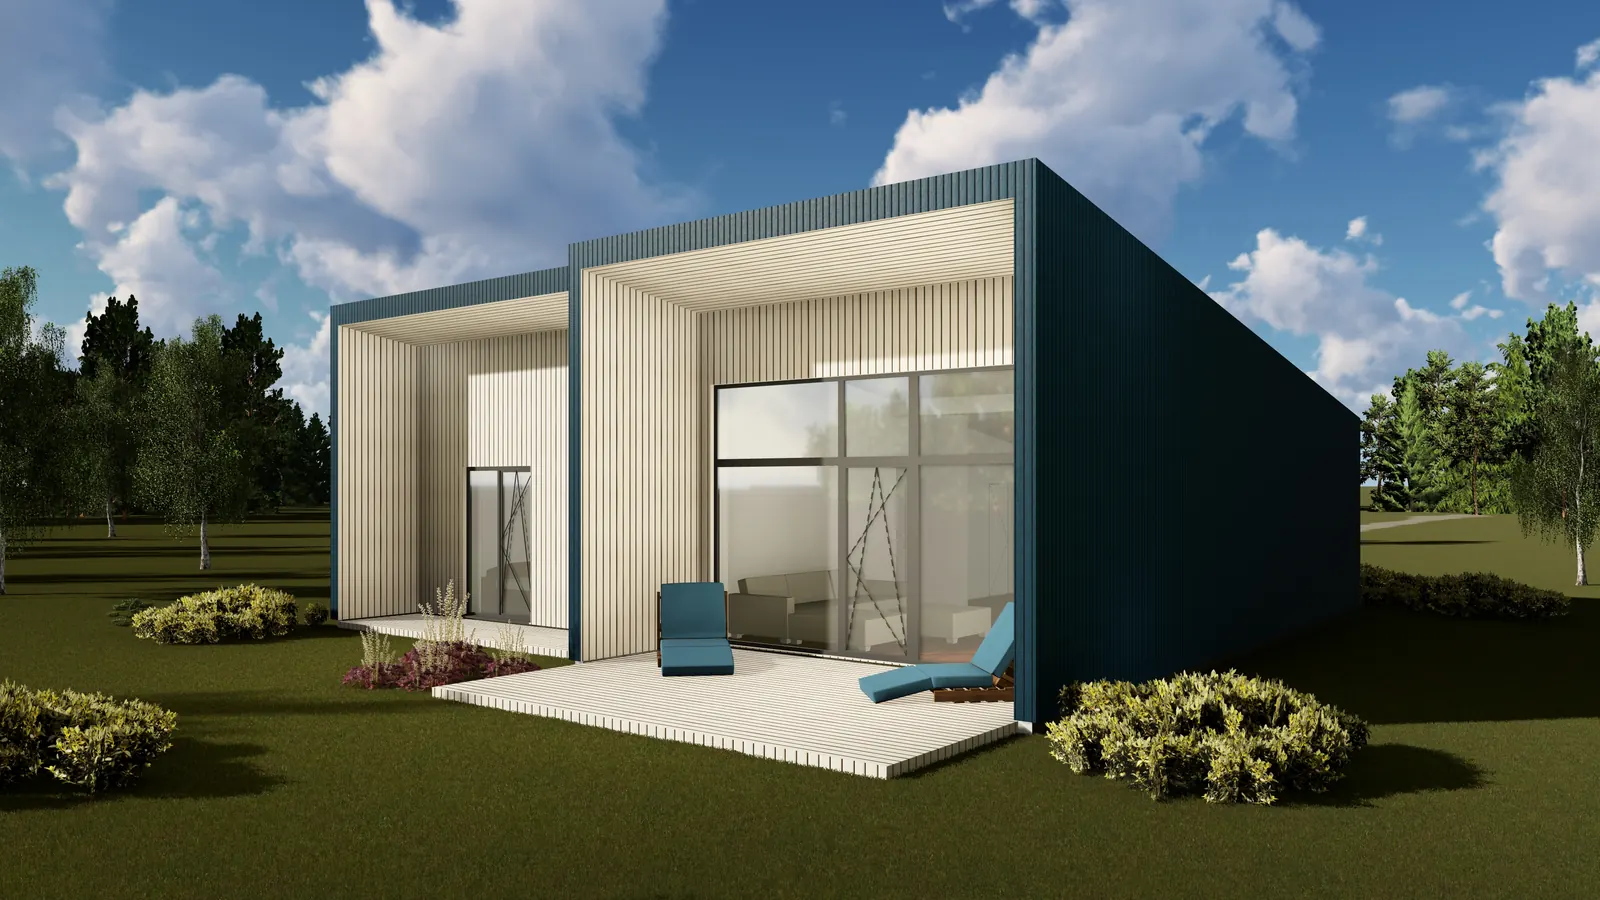
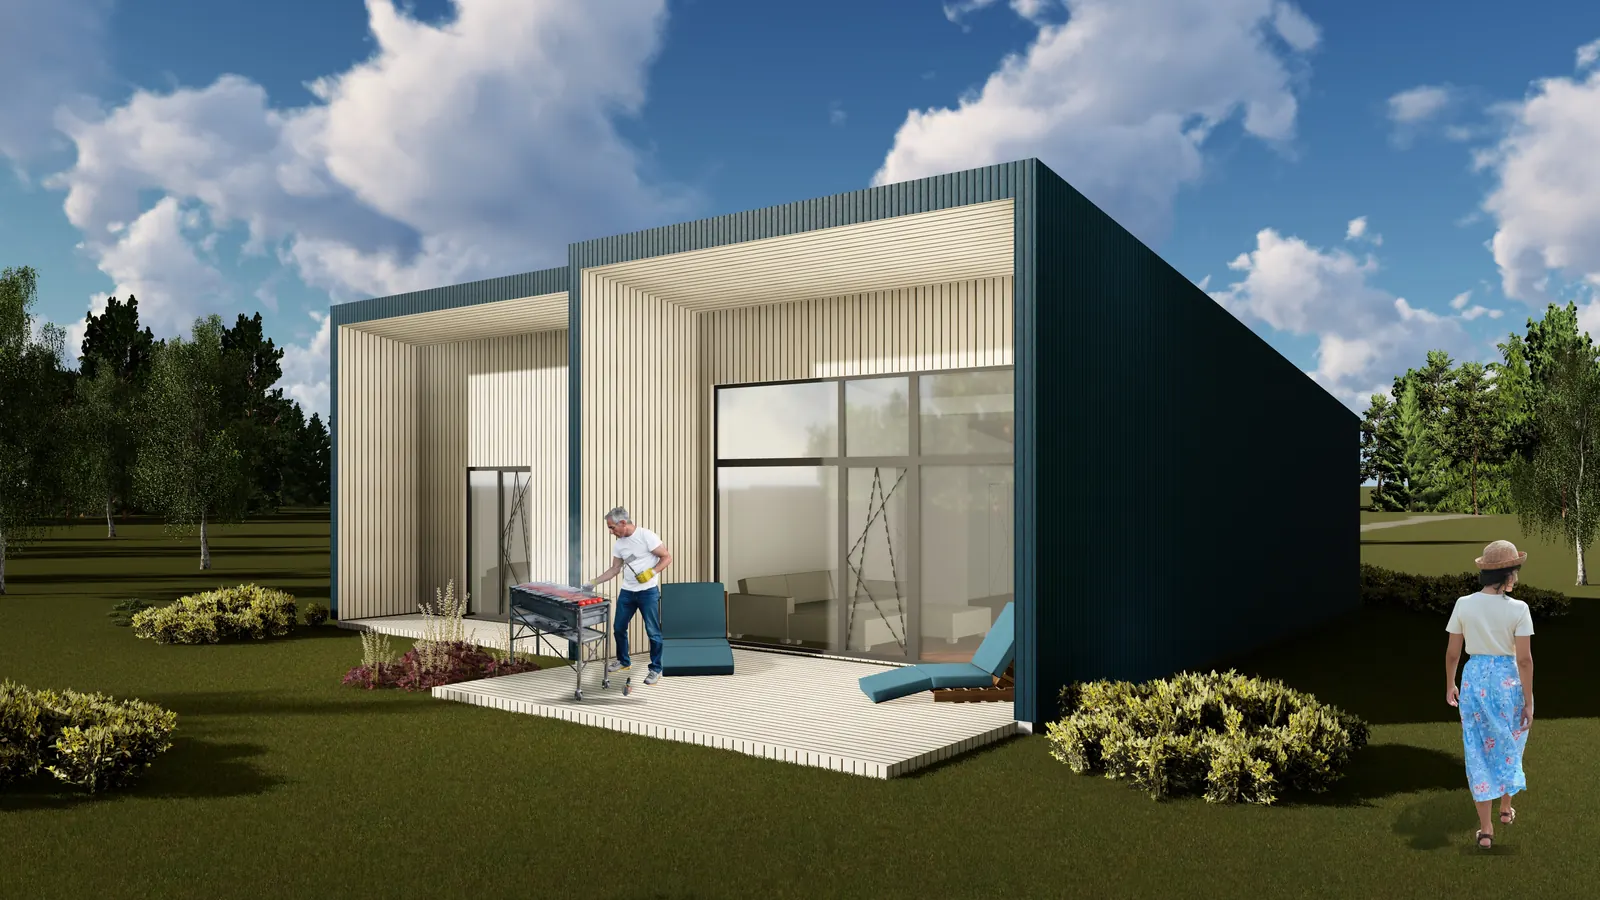
TUBE: aiavaate renderitel päris inimesed (Skalgubbar väljalõiked)
- maja piksleid ei muudeta; inimesed + varjud laotakse peale perspektiivi järgi
- tools/compose_people.py kordab tulemust (lähtefailid Dropboxist, ei commit'ita)

Changed region(s): [[0.875, 0.5911, 0.9688, 0.9644], [0.3125, 0.56, 0.4375, 0.8089]]

diff --git a/tools/compose_people.py b/tools/compose_people.py
@@ -1,0 +1,87 @@
+"""Lisab TUBE renderitele päris inimeste väljalõiked (skalgubbar.se). Maja piksleid ei muudeta,
+inimene + vari laotakse peale. Koordinaadid on 1600x900 eelvaate ruumis, arvutus täisresolutsioonis."""
+import sys, os
+from PIL import Image, ImageFilter, ImageEnhance, ImageDraw
+
+SP = sys.argv[1]
+SRC = f'{SP}/dlandrea/all'
+SK = f'{SP}/skal'
+OUT = f'{SP}/people-out'
+os.makedirs(OUT, exist_ok=True)
+K = 2.4            # eelvaade -> täisresolutsioon (3840/1600)
+HORIZON = 495      # eelvaate ruumis
+CAM_H = 1.9        # kaamera kõrgus meetrites (kontrollitud ukse kõrgustega)
+
+CUT = {
+    'grill': 'skalgubbar_338_e_grilling_kebab_and_tomatoes-1.png',
+    'flowers': 'skalgubbar_335_c_has_graduated.png',
+    'couple': '358_S_and_L_on_picnic_with_baguette_hat_and_a_spoon.png',
+    'dog': 'skalgubbar_181_k_walking_the_dog.png',
+    'walker': 'skalgubbar_359_c_walking_to_buy_eclair_au_chocolat.png',
+}
+# (render, [(cutout, x_center, feet_y, height_m, flip, shadow_dir)])
+SCENES = []
+_PEOPLE = {
+    '01': [('grill', 590, 702, 1.80, False, 1), ('walker', 1490, 850, 1.66, False, 1)],
+    '02': [('couple', 300, 800, 1.80, False, 1)],
+    '03': [('flowers', 1010, 832, 1.68, False, 1)],
+    '04': [('dog', 330, 822, 1.82, False, 1)],
+}
+for _m, _ppl in _PEOPLE.items():
+    for _s in ('89-7', '109-7', '123-4'):
+        SCENES.append((f'tube-{_m}-{_s}-garden', _ppl))
+
+
+def load_cut(name):
+    im = Image.open(f'{SK}/{CUT[name]}').convert('RGBA')
+    return im.crop(im.getchannel('A').point(lambda a: 255 if a > 20 else 0).getbbox())
+
+
+def shadow_layer(person, direction):
+    """Maapinnale langev vari: siluett lapikuks, kallutatud päikesest eemale, pehme."""
+    w, h = person.size
+    a = person.getchannel('A').transpose(Image.FLIP_TOP_BOTTOM)
+    sh_h = max(2, int(h * 0.28))
+    a = a.resize((w, sh_h))
+    shear = 0.9 * direction
+    pad = int(abs(shear) * sh_h) + 4
+    a = a.transform((w + pad, sh_h), Image.AFFINE,
+                    (1, shear, -pad if shear > 0 else 0, 0, 1, 0), resample=Image.BICUBIC)
+    # vari on kõige tumedam jalgade juures (alumine serv)
+    grad = Image.linear_gradient('L').resize((w + pad, sh_h))
+    a = Image.composite(a, Image.new('L', a.size, 0), grad)
+    return a.filter(ImageFilter.GaussianBlur(max(2, w // 60))).point(lambda v: int(v * 0.58)), pad if shear > 0 else 0
+
+
+def compose(render, people):
+    base = Image.open(f'{SRC}/{render}.jpg').convert('RGBA')
+    for name, xc, fy, hm, flip, sdir in people:
+        p = load_cut(name)
+        if flip:
+            p = p.transpose(Image.FLIP_LEFT_RIGHT)
+        target_h = int((fy - HORIZON) * hm / CAM_H * K)
+        p = p.resize((int(p.width * target_h / p.height), target_h), Image.LANCZOS)
+        # foto -> render: veidi pehmem ja sobitatud kontrast, et ei "hüppaks" välja
+        rgb = ImageEnhance.Color(p.convert('RGB')).enhance(0.92)
+        rgb = ImageEnhance.Contrast(rgb).enhance(0.95).filter(ImageFilter.GaussianBlur(0.6))
+        p = Image.merge('RGBA', (*rgb.split(), p.getchannel('A')))
+        x = int(xc * K - p.width / 2)
+        y = int(fy * K - p.height)
+        # kontaktvari jalgade all
+        cw, ch = int(p.width * 0.7), max(6, int(p.height * 0.035))
+        cont = Image.new('L', (cw, ch), 0)
+        ImageDraw.Draw(cont).ellipse((0, 0, cw - 1, ch - 1), fill=110)
+        cont = cont.filter(ImageFilter.GaussianBlur(ch / 2.5))
+        base.paste((0, 0, 0, 255), (int(xc * K - cw / 2), int(fy * K - ch / 2)), cont)
+        sh, off = shadow_layer(p, sdir)
+        base.paste((10, 20, 5, 255), (x - off + (0 if sdir > 0 else 0), int(fy * K) - sh.height), sh)
+        base.alpha_composite(p, (x, y))
+    out = base.convert('RGB')
+    out.save(f'{OUT}/{render}.jpg', quality=92)
+    prev = out.copy(); prev.thumbnail((1600, 1600), Image.LANCZOS)
+    prev.save(f'{OUT}/{render}.webp', 'WEBP', quality=78, method=6)
+
+
+for r, ppl in SCENES:
+    compose(r, ppl)
+print('ok')
